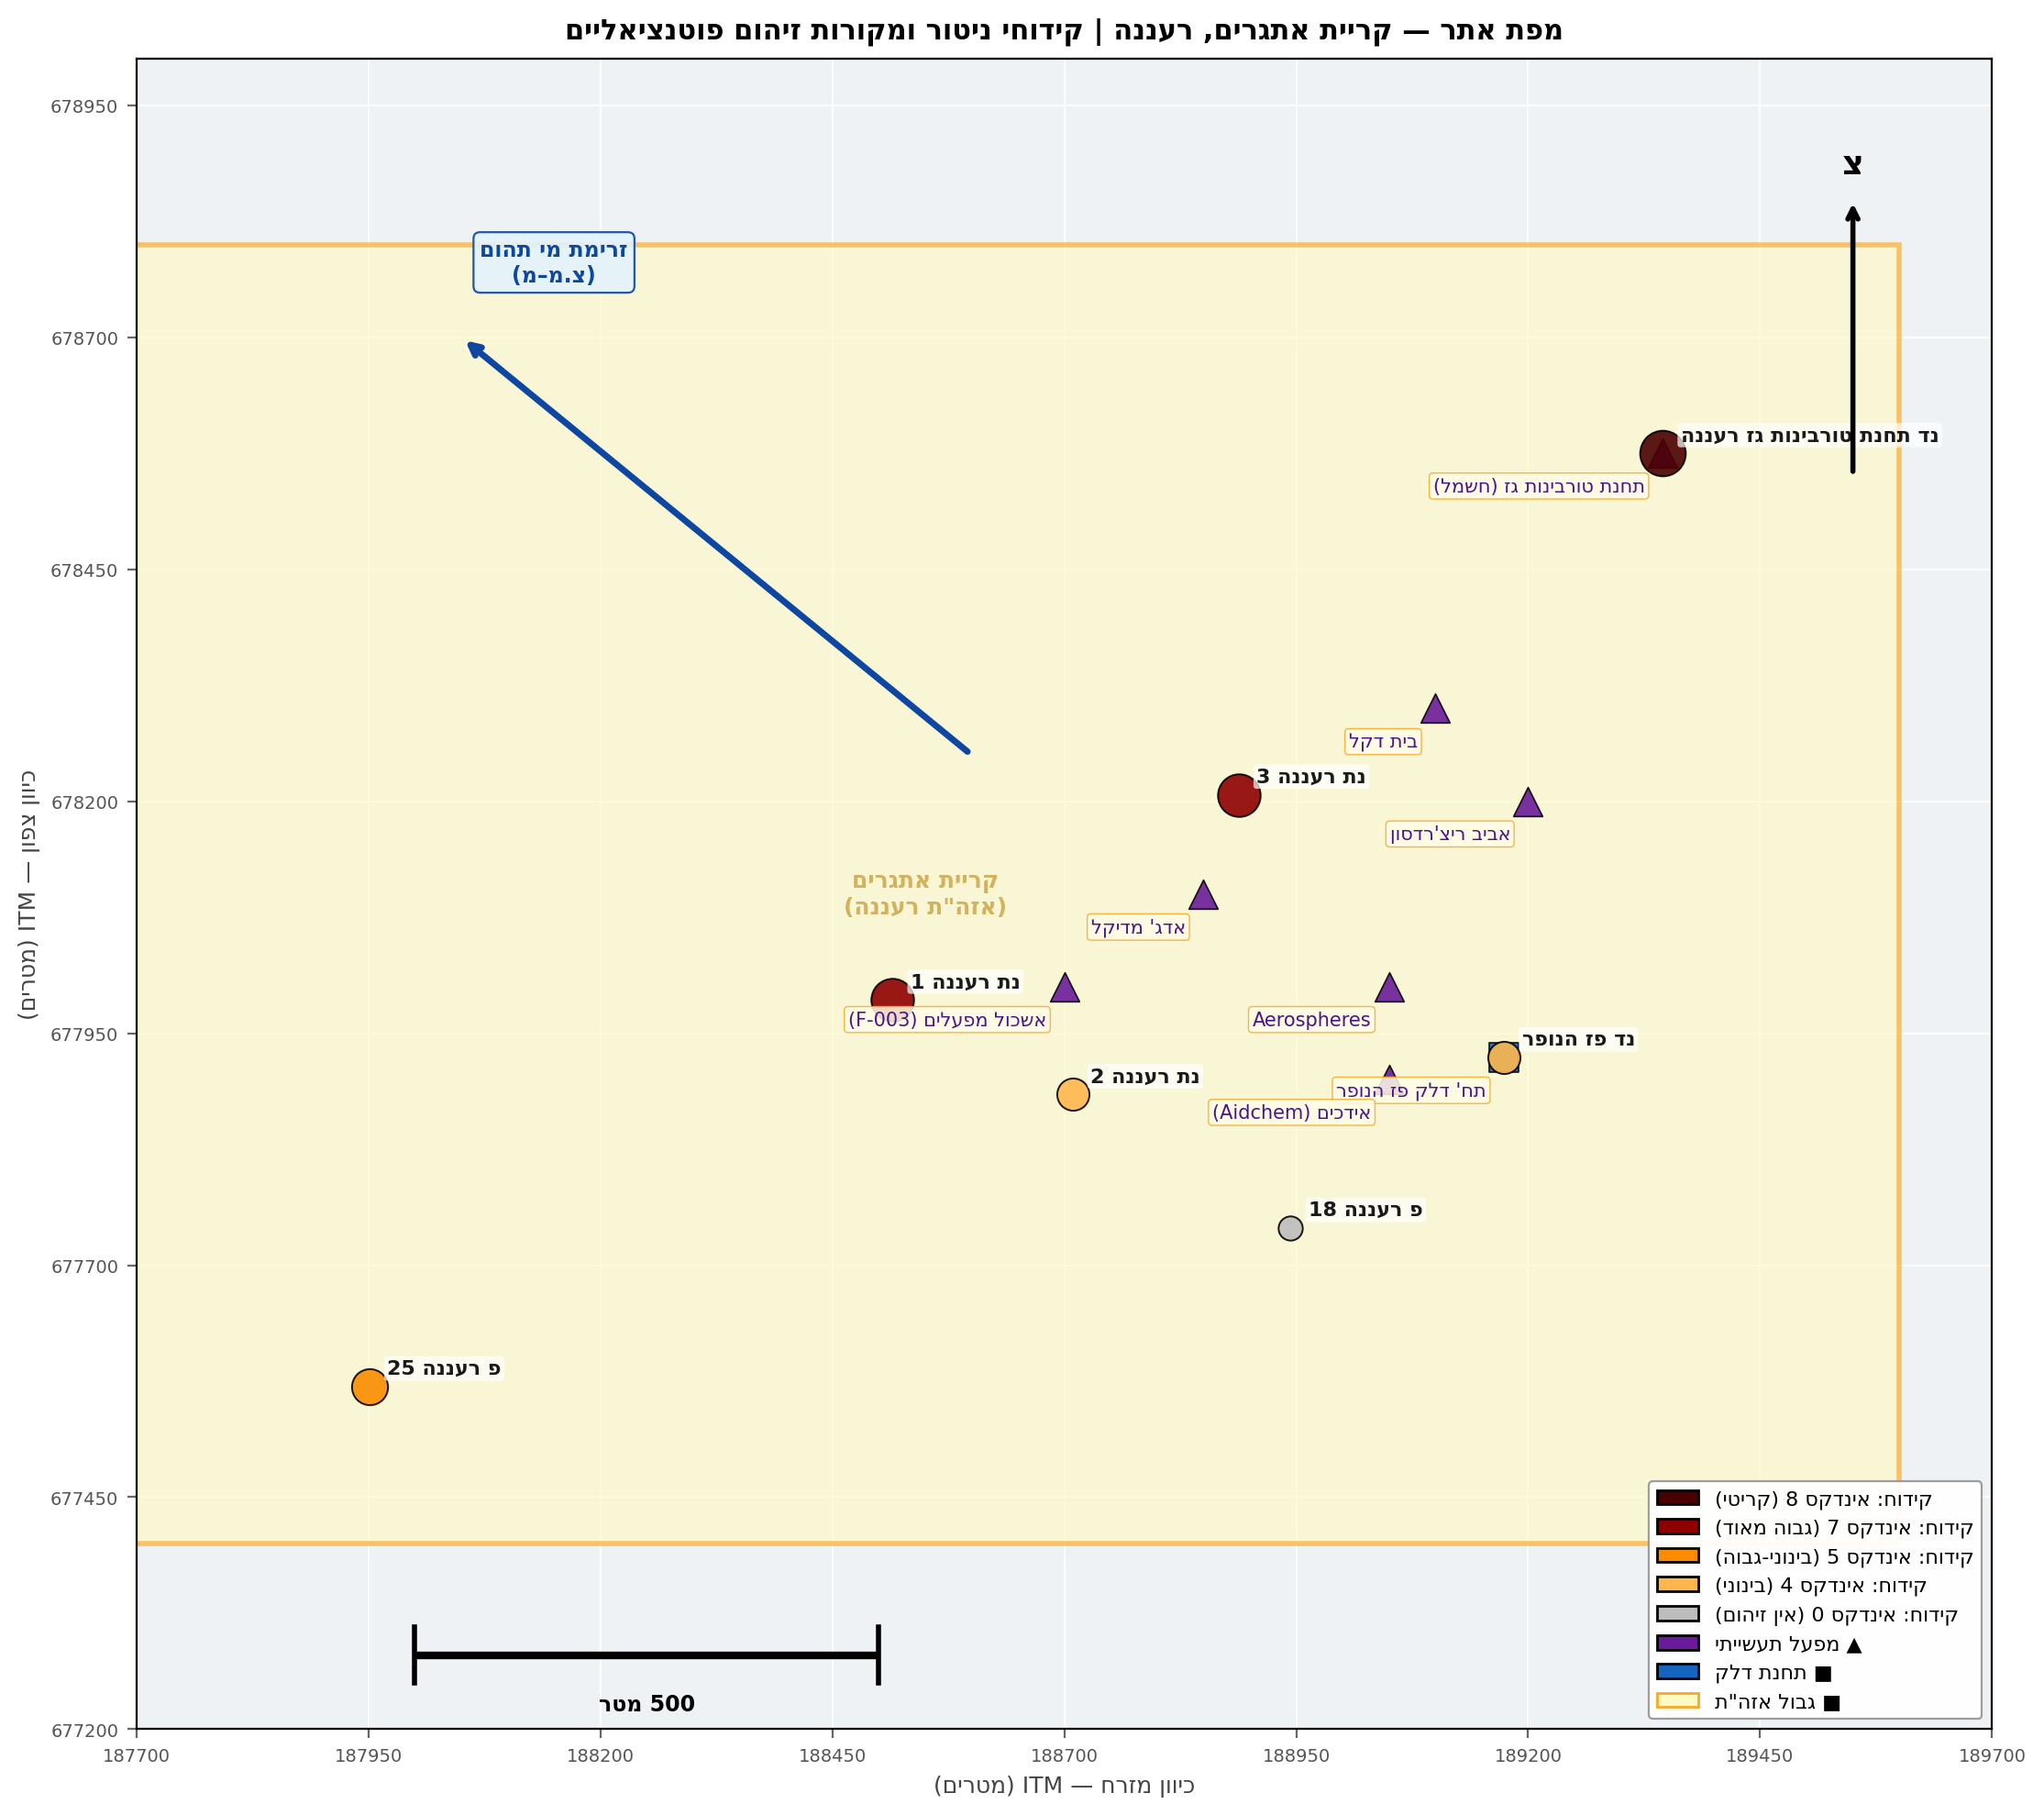
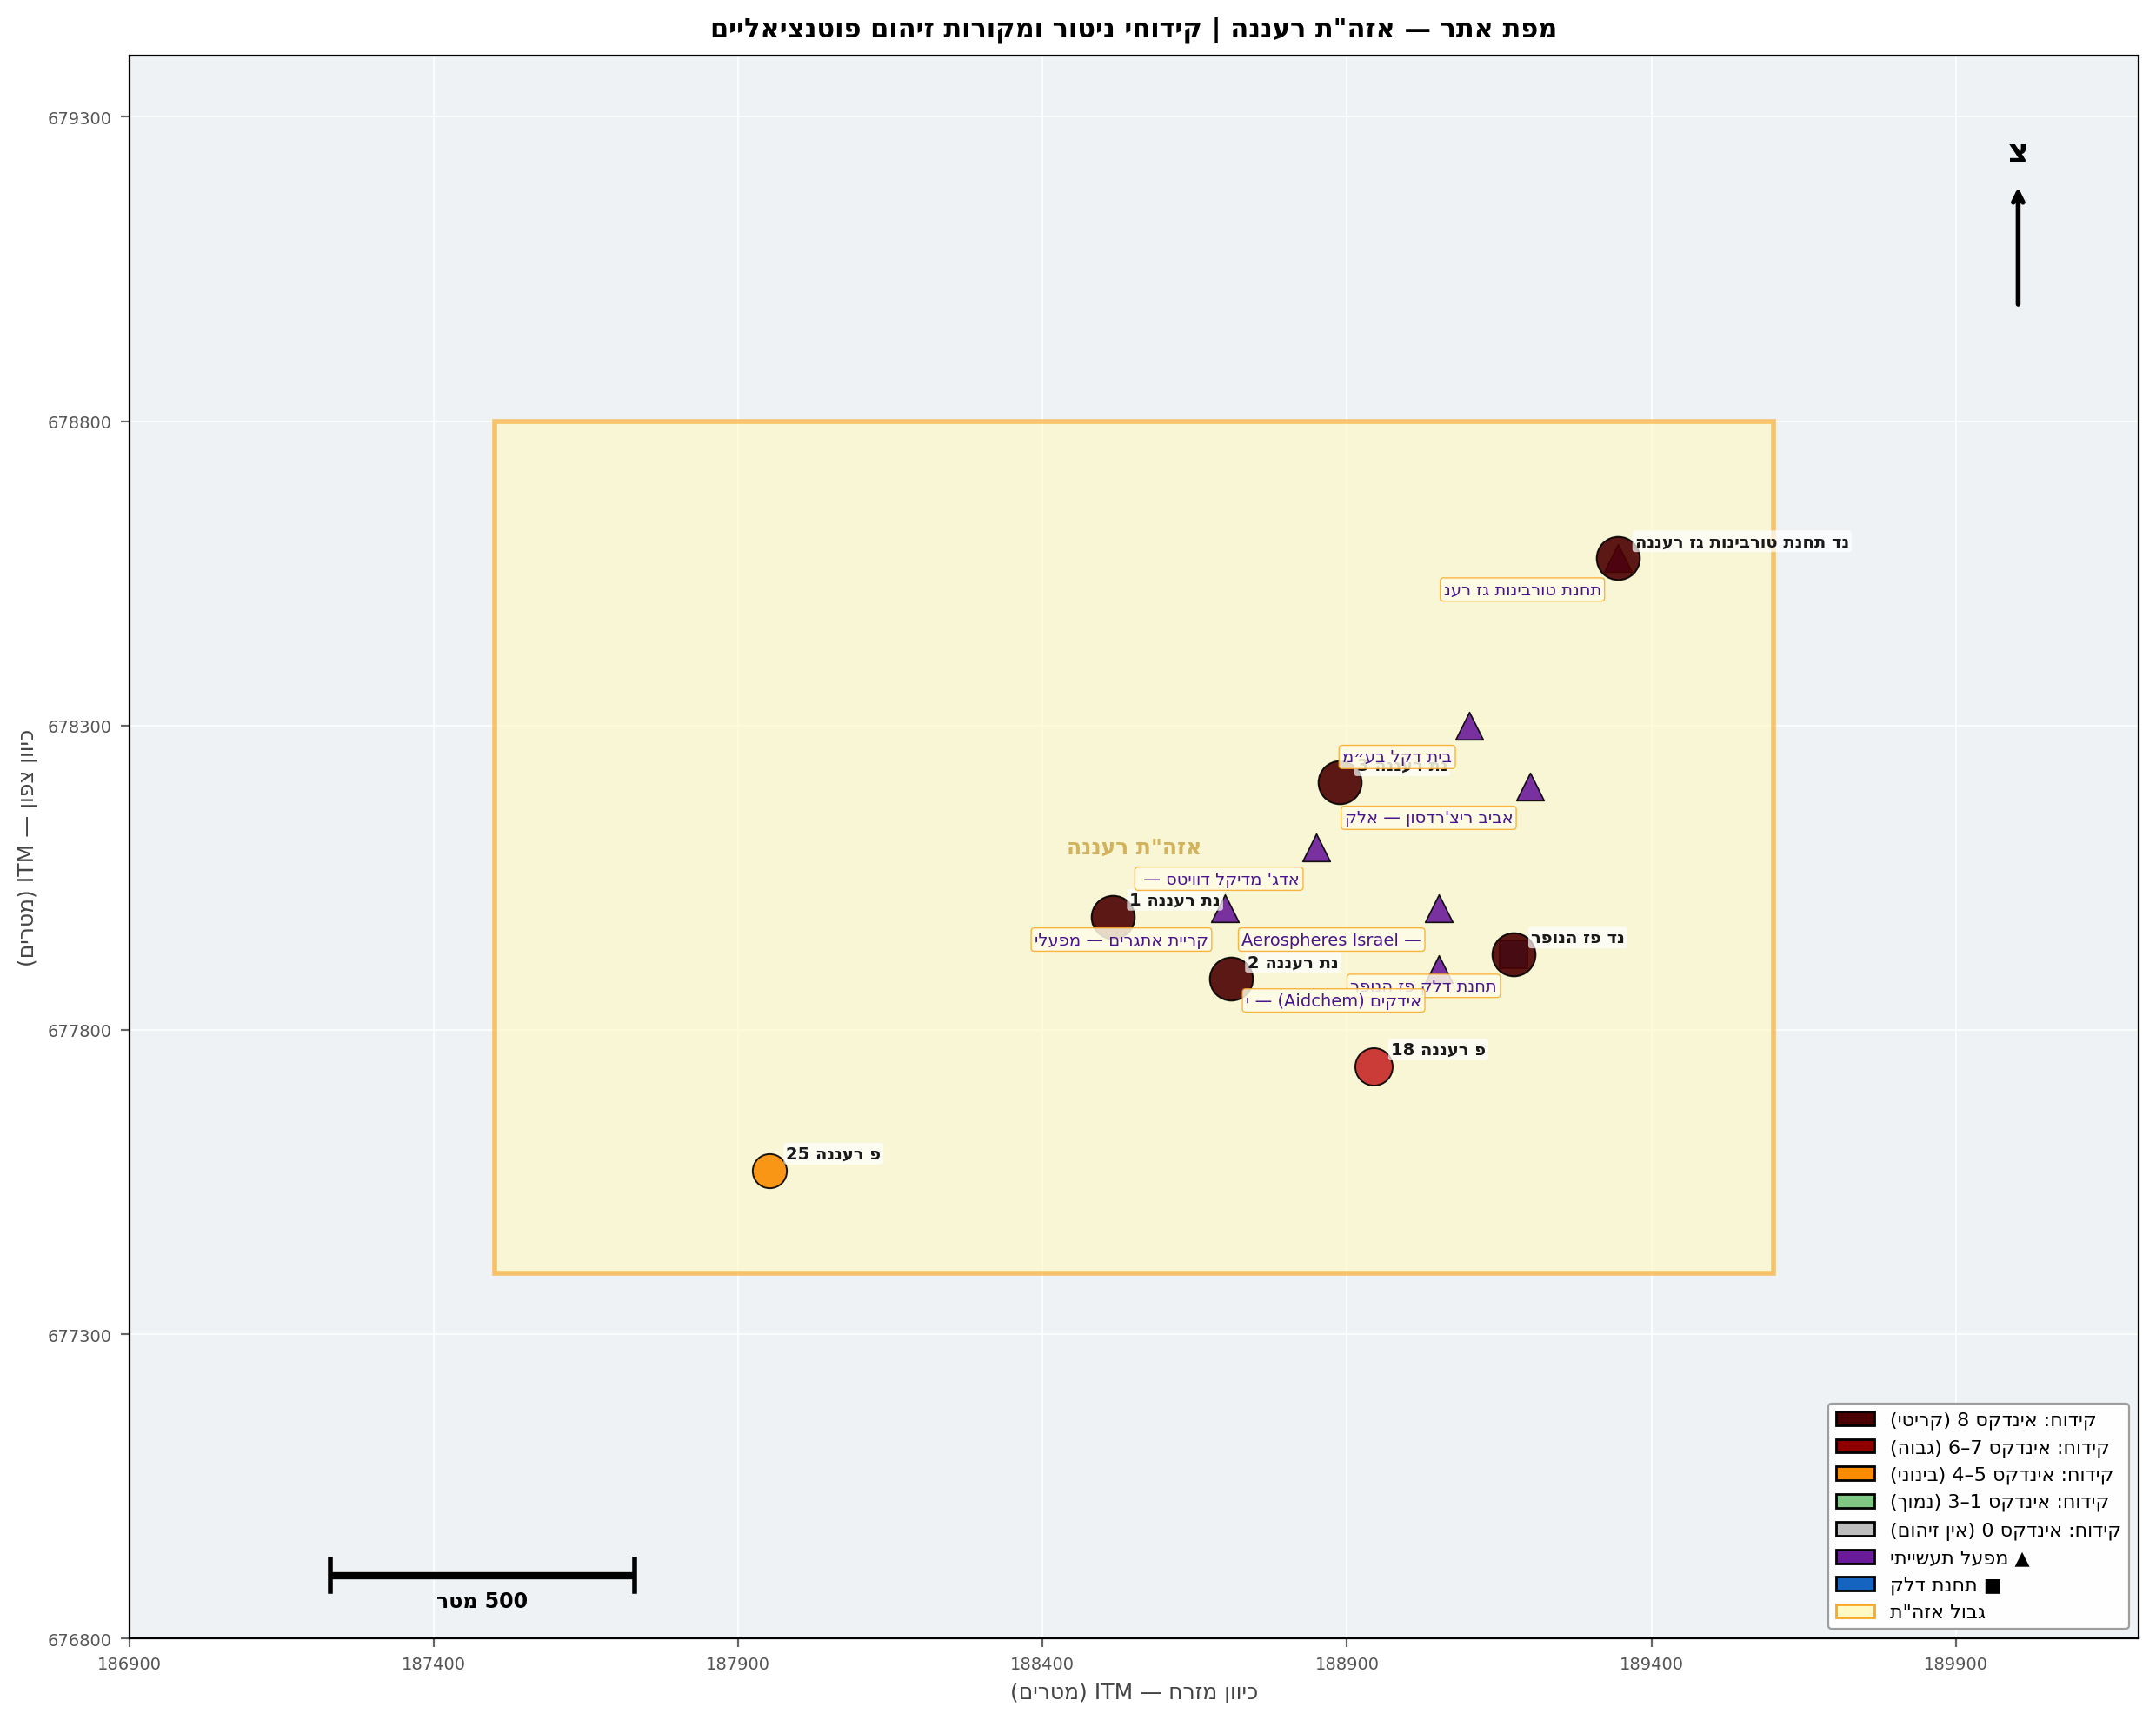
[PHASE 5 / REQ-H3] Cross-zone param-family classifier (CVOC/BTEX/PFAS)
Problem: Different zones use different parameter naming conventions in their
Excel files. Raanana uses short codes (TCEY, PCE, PFHXS); Holon uses full
English names (TRICHLORO ETHYLENE, TETRACHLORO ETHYLENE, Per-FluoroOctaneSulfonate).
Hardcoded code sets in generate_charts_v2.py worked for Raanana but Holon's
CVOC trend chart returned empty.

Solution:
- New module scripts/param_families.py: classify_family(code, name) → CVOC/BTEX/PFAS/OTHER
  Uses regex patterns matching common variants across zones, checks both
  param_code AND param_name fields.
- generate_charts_v2.py:
  * Removed hardcoded _CVOC_CODES / _BTEX_CODES / _PFAS_CODES sets
  * chart_generic_trends() now takes family name (CVOC/BTEX/PFAS) instead of code set
  * chart_generic_severity_panel() uses classifier instead of inline lookup
  * Imports param_families at top (fixed module path with REPO_ROOT on sys.path)

Verification:
- Holon: CVOC chart now produces output (4,915 CVOC measurements detected, was 0)
         All 5 generic charts now generate successfully
- Raanana: 10 zone-specific charts unchanged
- New tests: tests/test_param_families.py — 9 tests covering Raanana short codes,
  Holon full names, negatives, and edge cases (None/empty)
- Total: 37/37 tests pass (was 28)

Resolves REQ-H3 from REQUIREMENTS.md.

https://claude.ai/code/session_01VLoT2vE82jwapmUNCB4wRe

diff --git a/tests/test_param_families.py b/tests/test_param_families.py
@@ -1,0 +1,86 @@
+"""Regression tests for cross-zone parameter family classification."""
+from __future__ import annotations
+
+from pathlib import Path
+import sys
+
+REPO_ROOT = Path(__file__).resolve().parent.parent
+sys.path.insert(0, str(REPO_ROOT))
+
+from scripts.param_families import classify_family, is_btex, is_cvoc, is_pfas
+
+
+# ── Raanana-style short codes ─────────────────────────────────────────────────
+
+def test_raanana_cvoc_codes_classified():
+    for code in ["TCEY", "PCE", "DCE", "VC", "CHLF", "CCLA"]:
+        assert classify_family(code) == "CVOC", f"Failed for {code}"
+
+
+def test_raanana_btex_codes_classified():
+    for code in ["BENZENE", "TOLUENE", "ETHYLB", "MXYLENE", "PXYLENE", "OXYLENE", "XYLENE"]:
+        assert classify_family(code) == "BTEX", f"Failed for {code}"
+
+
+def test_raanana_pfas_codes_classified():
+    for code in ["PFHXS", "PFOA", "PFOS", "PFHXA", "PFBA", "PFBS"]:
+        assert classify_family(code) == "PFAS", f"Failed for {code}"
+
+
+# ── Holon-style full names ────────────────────────────────────────────────────
+
+def test_holon_cvoc_full_names_classified():
+    for name in [
+        "TRICHLORO ETHYLENE",
+        "TETRACHLORO ETHYLENE",
+        "CIS 1,2 DICHLOROETHYLENE",
+        "DICHLOROETHYLENE 1,1",
+        "VINYL CHLORIDE",
+        "CARBON TETRACHLORIDE",
+        "CHLOROFORM",
+        "Methylene chloride",
+        "Chloromethane",
+        "DICHLOROETHANE1,2",
+        "TRICHLORO ETHANE 1,1,1",
+    ]:
+        assert classify_family("", name) == "CVOC", f"Failed for {name}"
+
+
+def test_holon_btex_full_names_classified():
+    for name in ["BENZENE", "TOLUENE", "XYLENE", "ETHYL BENZENE", "o-Xylene", "p-xylene"]:
+        assert classify_family("", name) == "BTEX", f"Failed for {name}"
+
+
+def test_holon_pfas_full_names_classified():
+    for name in [
+        "Per-FluoroOctaneSulfonate",
+        "Per-FluoroOctanoic Acid",
+        "Perfluorobutane Sulfonic Acid",
+        "Perfluorohexanesulfonic acid",
+        "PERFLUORO PFEESA",
+        "total_pfas",
+    ]:
+        assert classify_family("", name) == "PFAS", f"Failed for {name}"
+
+
+# ── Negatives — common non-target params should NOT match ──────────────────────
+
+def test_unrelated_params_classified_as_other():
+    for code in ["NITRATE AS NO3", "CHLORIDE AS CL", "TEMPERATURE CENTIGRADE",
+                 "FIELD ELECTRICAL CONDUCTIVITY", "BICARBONATE AS HCO3",
+                 "TOTAL ORGANIC CARBON", "COPPER AS CU"]:
+        assert classify_family(code) == "OTHER", f"False positive for {code}"
+
+
+def test_classify_handles_none_and_empty():
+    assert classify_family(None, None) == "OTHER"
+    assert classify_family("", "") == "OTHER"
+    assert classify_family(None, "") == "OTHER"
+
+
+def test_helpers_consistent_with_classify():
+    assert is_cvoc("TCE")
+    assert is_btex("BENZENE")
+    assert is_pfas("PFOS")
+    assert not is_cvoc("BENZENE")
+    assert not is_btex("PFOS")

diff --git a/scripts/generate_charts_v2.py b/scripts/generate_charts_v2.py
@@ -13,12 +13,17 @@ import json as _json
 import sys
 from pathlib import Path
 
+REPO_ROOT = Path(__file__).resolve().parent.parent
+sys.path.insert(0, str(REPO_ROOT))
+
 import matplotlib
 matplotlib.use("Agg")
 import matplotlib.pyplot as plt
 import matplotlib.patches as mpatches
 import pandas as pd
 import numpy as np
+
+from scripts.param_families import classify_family
 
 
 def _load_selected_ids(zone_dir: Path) -> set | None:
@@ -809,43 +814,51 @@ def chart_zone_site_map(zone_dir: Path, out: Path, zone_id: str = "raanana") -> 
 
 
 # ── Generic charts (any zone) ─────────────────────────────────────────────────
-
-_CVOC_CODES = {"TCE", "TCEY", "PCE", "DCE", "CIS12DCE", "11DCE", "VC", "12DCA",
-               "CHCL3", "CHLF", "CCLA", "TCAM"}
-_BTEX_CODES = {"BENZENE", "TOLUENE", "ETHYLB", "XYLENE", "MXYLENE", "PXYLENE",
-               "OXYLENE", "STYRENE"}
-_PFAS_CODES = {"PFHXS", "PFOA", "PFOS", "PFHXA", "PFBA", "PFBS", "PFNA", "PFDA"}
+# Cross-zone parameter-family classification — handles short codes (Raanana: TCEY)
+# and full English names (Holon: TRICHLORO ETHYLENE) via regex patterns.
 
 
-def _top_boreholes_for_codes(df: pd.DataFrame, codes: set, n: int = 6) -> list[str]:
-    """Return up to n borehole IDs with highest max concentration for a code set."""
-    subset = df[df['param_code'].str.upper().isin({c.upper() for c in codes})]
+def _filter_family(df: pd.DataFrame, family: str) -> pd.DataFrame:
+    """Subset df to rows whose param matches the given family (CVOC/BTEX/PFAS)."""
+    if 'family' not in df.columns:
+        df = df.copy()
+        df['family'] = df.apply(
+            lambda r: classify_family(r.get('param_code'), r.get('param_name')), axis=1)
+    return df[df['family'] == family]
+
+
+def _top_boreholes_for_family(df: pd.DataFrame, family: str, n: int = 6) -> list[str]:
+    """Return up to n borehole IDs with highest max concentration for a family."""
+    subset = _filter_family(df, family)
     if subset.empty:
         return []
     return (subset.groupby('canonical_id')['concentration']
             .max().nlargest(n).index.tolist())
 
 
-def chart_generic_trends(df: pd.DataFrame, code_set: set, title_he: str,
+def chart_generic_trends(df: pd.DataFrame, family: str, title_he: str,
                          std_line: float | None, filename: str, out: Path) -> None:
-    """Time-series chart for top boreholes matching code_set. Data-driven, no hardcoded IDs."""
-    top_bhs = _top_boreholes_for_codes(df, code_set, n=6)
+    """Time-series chart for top boreholes in a family. Cross-zone (Raanana, Holon, etc.)."""
+    sub_all = _filter_family(df, family)
+    if sub_all.empty:
+        print(f"  Skipped {filename}: no data for family {family}")
+        return
+
+    top_bhs = _top_boreholes_for_family(sub_all, family, n=6)
     if not top_bhs:
-        print(f"  Skipped {filename}: no data for this contaminant group")
+        print(f"  Skipped {filename}: no boreholes with detections in family {family}")
         return
 
     fig, ax = plt.subplots(figsize=(12, 5), dpi=150)
     colors = plt.cm.tab10.colors
     for i, bh_id in enumerate(top_bhs):
-        sub = df[(df['canonical_id'] == bh_id) &
-                 (df['param_code'].str.upper().isin({c.upper() for c in code_set}))].copy()
+        sub = sub_all[sub_all['canonical_id'] == bh_id].copy()
         sub = sub[sub['concentration'].notna() & (sub['concentration'] > 0)]
         if sub.empty:
             continue
-        # Pick max-concentration parameter for this borehole
         best_param = sub.groupby('param_code')['concentration'].max().idxmax()
         sub2 = sub[sub['param_code'] == best_param].sort_values('date')
-        label = H(f"{str(sub2['name_he'].iloc[0])[:15]} ({best_param})")
+        label = H(f"{str(sub2['name_he'].iloc[0])[:15]} ({str(best_param)[:18]})")
         ax.plot(sub2['date'], sub2['concentration'], marker='o', ms=4,
                 color=colors[i % len(colors)], label=label, linewidth=1.4)
 
@@ -888,22 +901,14 @@ def chart_generic_exceedances(df: pd.DataFrame, out: Path) -> None:
 
 
 def chart_generic_severity_panel(df: pd.DataFrame, out: Path) -> None:
-    """Heatmap: max severity index per borehole × contaminant family."""
+    """Heatmap: max severity index per borehole × contaminant family (CVOC/BTEX/PFAS/OTHER)."""
     df2 = df.copy()
     df2['pct'] = pd.to_numeric(df2.get('percent_of_standard', pd.Series()), errors='coerce')
     df2['idx'] = df2['pct'].apply(_pct_to_index)
-
-    def _family(code: str) -> str:
-        cu = code.upper()
-        if cu in {c.upper() for c in _CVOC_CODES}:
-            return 'CVOC'
-        if cu in {c.upper() for c in _BTEX_CODES}:
-            return 'BTEX'
-        if cu in {c.upper() for c in _PFAS_CODES}:
-            return 'PFAS'
-        return 'אחר'
-
-    df2['family'] = df2['param_code'].apply(_family)
+    df2['family'] = df2.apply(
+        lambda r: classify_family(r.get('param_code'), r.get('param_name')), axis=1)
+    # Display 'OTHER' in Hebrew for the chart
+    df2.loc[df2['family'] == 'OTHER', 'family'] = 'אחר'
     pivot = (df2.groupby(['canonical_id', 'family'])['idx']
              .max().unstack(fill_value=0))
 
@@ -980,13 +985,13 @@ def main():
         print(f"[V2 Charts] Done — 10 charts saved to {out}/")
     else:
         # Generic data-driven charts for any zone
-        chart_generic_trends(df, _CVOC_CODES,
+        chart_generic_trends(df, "CVOC",
                              "מגמות ריכוז CVOC — קידוחים מובילים", 7.5,
                              "cvoc_trends.png", out)
-        chart_generic_trends(df, _BTEX_CODES,
+        chart_generic_trends(df, "BTEX",
                              "מגמות ריכוז BTEX — קידוחים מובילים", 5.0,
                              "btex_trends.png", out)
-        chart_generic_trends(df, _PFAS_CODES,
+        chart_generic_trends(df, "PFAS",
                              "מגמות ריכוז PFAS — קידוחים מובילים", None,
                              "pfas_trends.png", out)
         chart_generic_exceedances(df, out)

diff --git a/scripts/param_families.py b/scripts/param_families.py
@@ -1,0 +1,69 @@
+"""Cross-zone parameter family classifier.
+
+Different zones' Excel files use different naming conventions for the same
+contaminants — short codes (TCEY, PCE) vs full names (TRICHLORO ETHYLENE).
+This module classifies parameters into canonical contaminant families using
+regex patterns that match common variants across all zones.
+
+Families:
+  CVOC  — chlorinated volatile organic compounds (TCE, PCE, DCE, VC, etc.)
+  BTEX  — benzene, toluene, ethylbenzene, xylenes
+  PFAS  — perfluoroalkyl substances (PFOS, PFOA, PFHxS, etc.)
+  OTHER — anything not matching the above families
+"""
+from __future__ import annotations
+
+import re
+
+# Patterns are matched case-insensitively against `param_code` AND `param_name`.
+# Order matters slightly only for performance — first match wins.
+_FAMILY_PATTERNS = {
+    "CVOC": re.compile(
+        r"(?:TRICHLORO|PERCHLORO|TETRACHLORO|DICHLORO|MONOCHLORO|"
+        r"CHLOROFORM|CHLOROETH|CHLOROMETH|VINYL\s*CHLORIDE|"
+        r"CARBON\s*TETRACHLORIDE|METHYLENE\s*CHLORIDE|"
+        r"\bTCE\b|\bPCE\b|\bDCE\b|\bVC\b|\bDCA\b|"
+        r"\bTCEY\b|\bCHLF\b|\bCCLA\b|\bTCAM\b|\bCHCL3\b|"
+        r"CIS.*DICHLOR|TRANS.*DICHLOR|TETRACHLOR\s*ETHANE|TRICHLOR\s*ETHANE)",
+        re.IGNORECASE,
+    ),
+    "BTEX": re.compile(
+        r"(?:^BENZENE$|\bBENZENE\b(?!\w)|TOLUENE|XYLENE|ETHYL\s*BENZENE|"
+        r"\bETHYLB\b|\bMXYL\b|\bPXYL\b|\bOXYL\b|STYRENE|"
+        r"TRIMETHYLBENZENE|^o-Xylene$|^p-xylene$)",
+        re.IGNORECASE,
+    ),
+    "PFAS": re.compile(
+        r"(?:PFAS|PFOS|PFOA|PFHX|PFBA|PFBS|PFNA|PFDA|PFEESA|"
+        r"PER[-\s]?FLUORO|PERFLUORO|PFOSA|PFHpA|PFPeA)",
+        re.IGNORECASE,
+    ),
+}
+
+
+def classify_family(param_code: str | None, param_name: str | None = None) -> str:
+    """Classify a parameter into CVOC / BTEX / PFAS / OTHER.
+
+    Checks param_code first, then param_name. Returns "OTHER" if no match
+    or if both inputs are empty/None.
+    """
+    fields = [str(f) for f in (param_code, param_name) if f]
+    if not fields:
+        return "OTHER"
+    text = " | ".join(fields)
+    for family, pattern in _FAMILY_PATTERNS.items():
+        if pattern.search(text):
+            return family
+    return "OTHER"
+
+
+def is_cvoc(param_code: str | None, param_name: str | None = None) -> bool:
+    return classify_family(param_code, param_name) == "CVOC"
+
+
+def is_btex(param_code: str | None, param_name: str | None = None) -> bool:
+    return classify_family(param_code, param_name) == "BTEX"
+
+
+def is_pfas(param_code: str | None, param_name: str | None = None) -> bool:
+    return classify_family(param_code, param_name) == "PFAS"